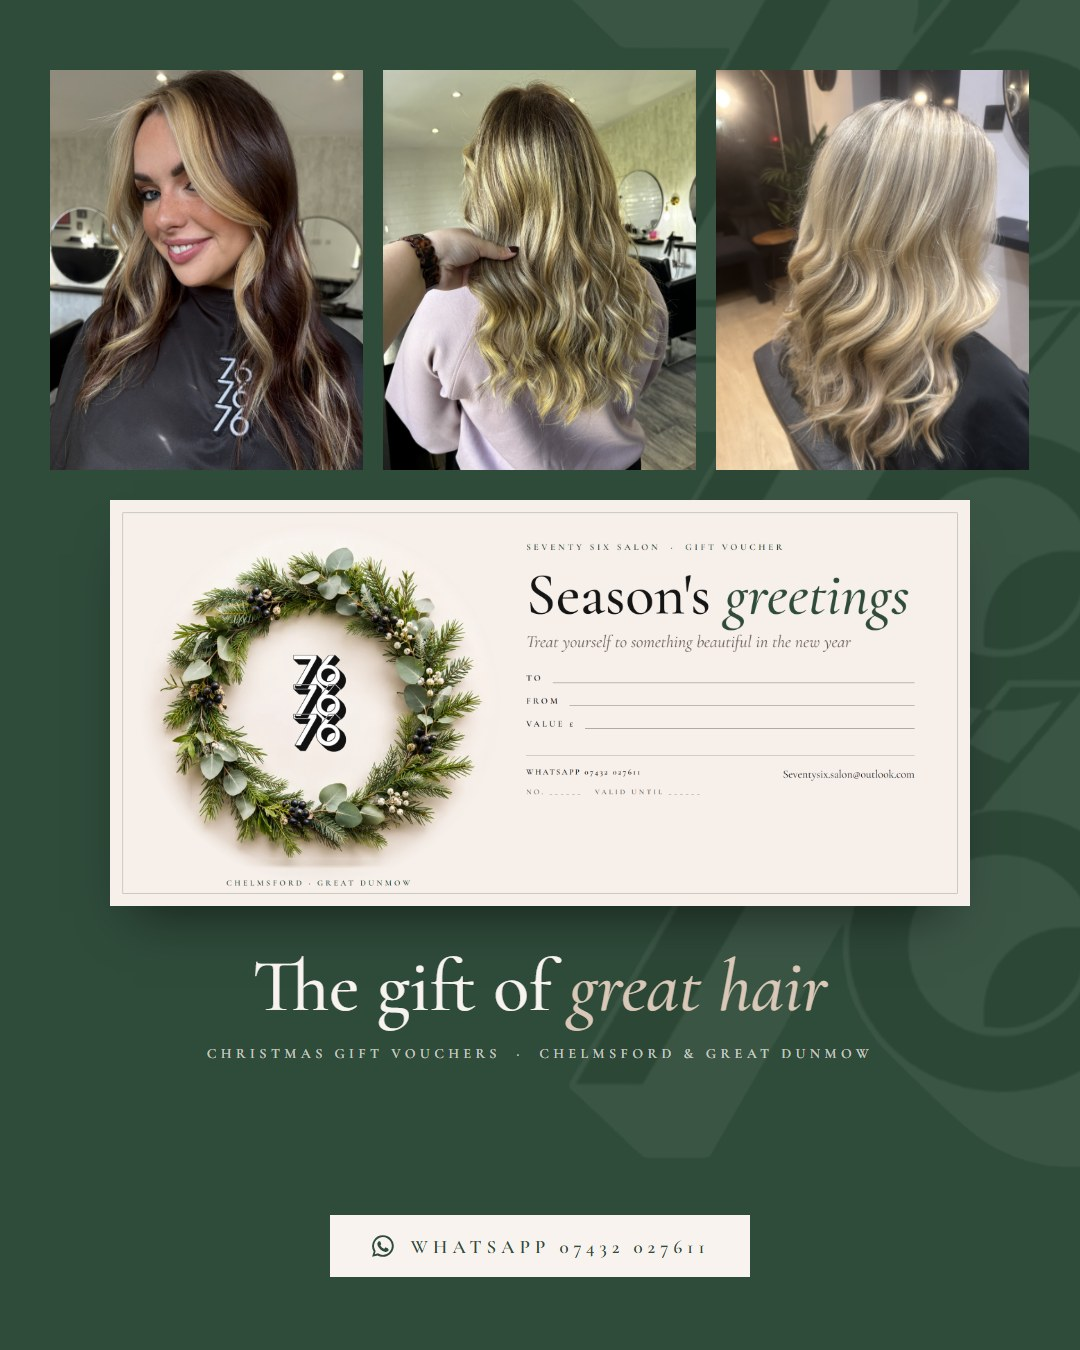
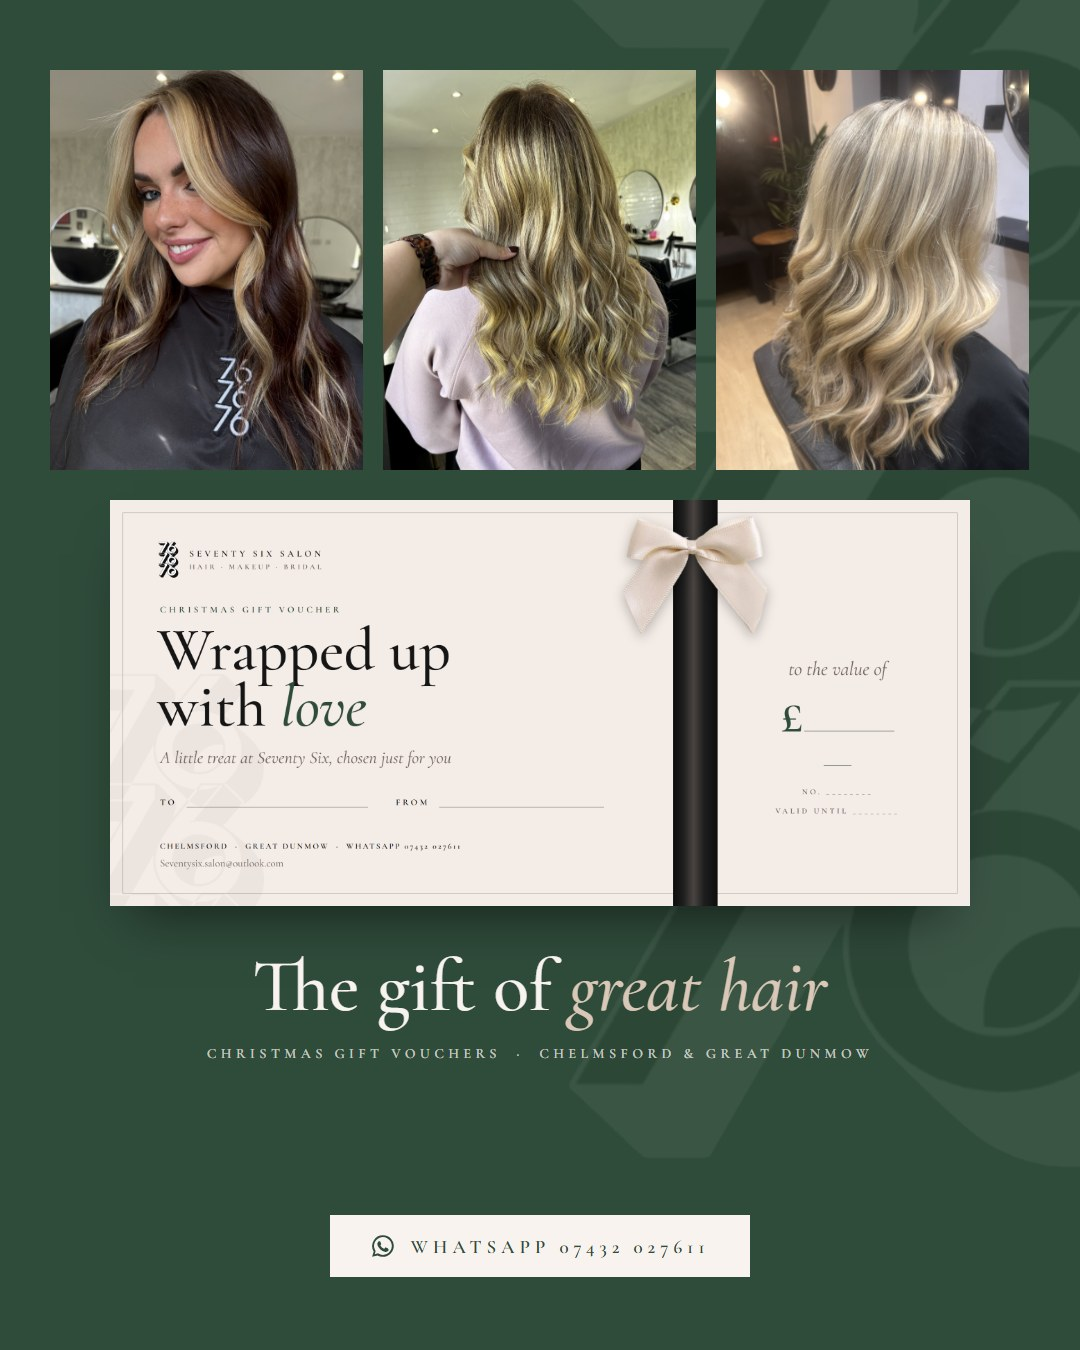
76 planner: voucher ad option 3 - new gift tag voucher (black satin band + cream bow)

diff --git a/seventysix-planner/index.html b/seventysix-planner/index.html
@@ -356,7 +356,7 @@ Our 1:1 makeup lesson is just you and our makeup artist. Bring your own makeup b
     <div class="st-row mu-row">
       <figure><button><img src="img/voucher-ad/ad1-feed.jpg?v=2" alt="Gift voucher ad option 1, feed" loading="lazy"></button><figcaption><b>Option 1</b> · Give her great hair</figcaption></figure>
       <figure><button><img src="img/voucher-ad/ad2-feed.jpg" alt="Gift voucher ad option 2, feed" loading="lazy"></button><figcaption><b>Option 2</b> · Christmas, sorted</figcaption></figure>
-      <figure><button><img src="img/voucher-ad/ad3-feed.jpg?v=2" alt="Gift voucher ad option 3, feed" loading="lazy"></button><figcaption><b>Option 3</b> · The gift of great hair</figcaption></figure>
+      <figure><button><img src="img/voucher-ad/ad3-feed.jpg?v=3" alt="Gift voucher ad option 3, feed" loading="lazy"></button><figcaption><b>Option 3</b> · The gift of great hair</figcaption></figure>
       <figure><button><img src="img/voucher-ad/ad4-feed.jpg?v=2" alt="Gift voucher ad option 4, feed" loading="lazy"></button><figcaption><b>Option 4</b> · For the girl who has everything</figcaption></figure>
     </div>
     <div class="mu-cap"><b>Ad text</b>Christmas gift vouchers are here 🎁 Treat someone special to hair or makeup at Seventy Six, Chelmsford or Great Dunmow. Message us on WhatsApp to get yours 💚
